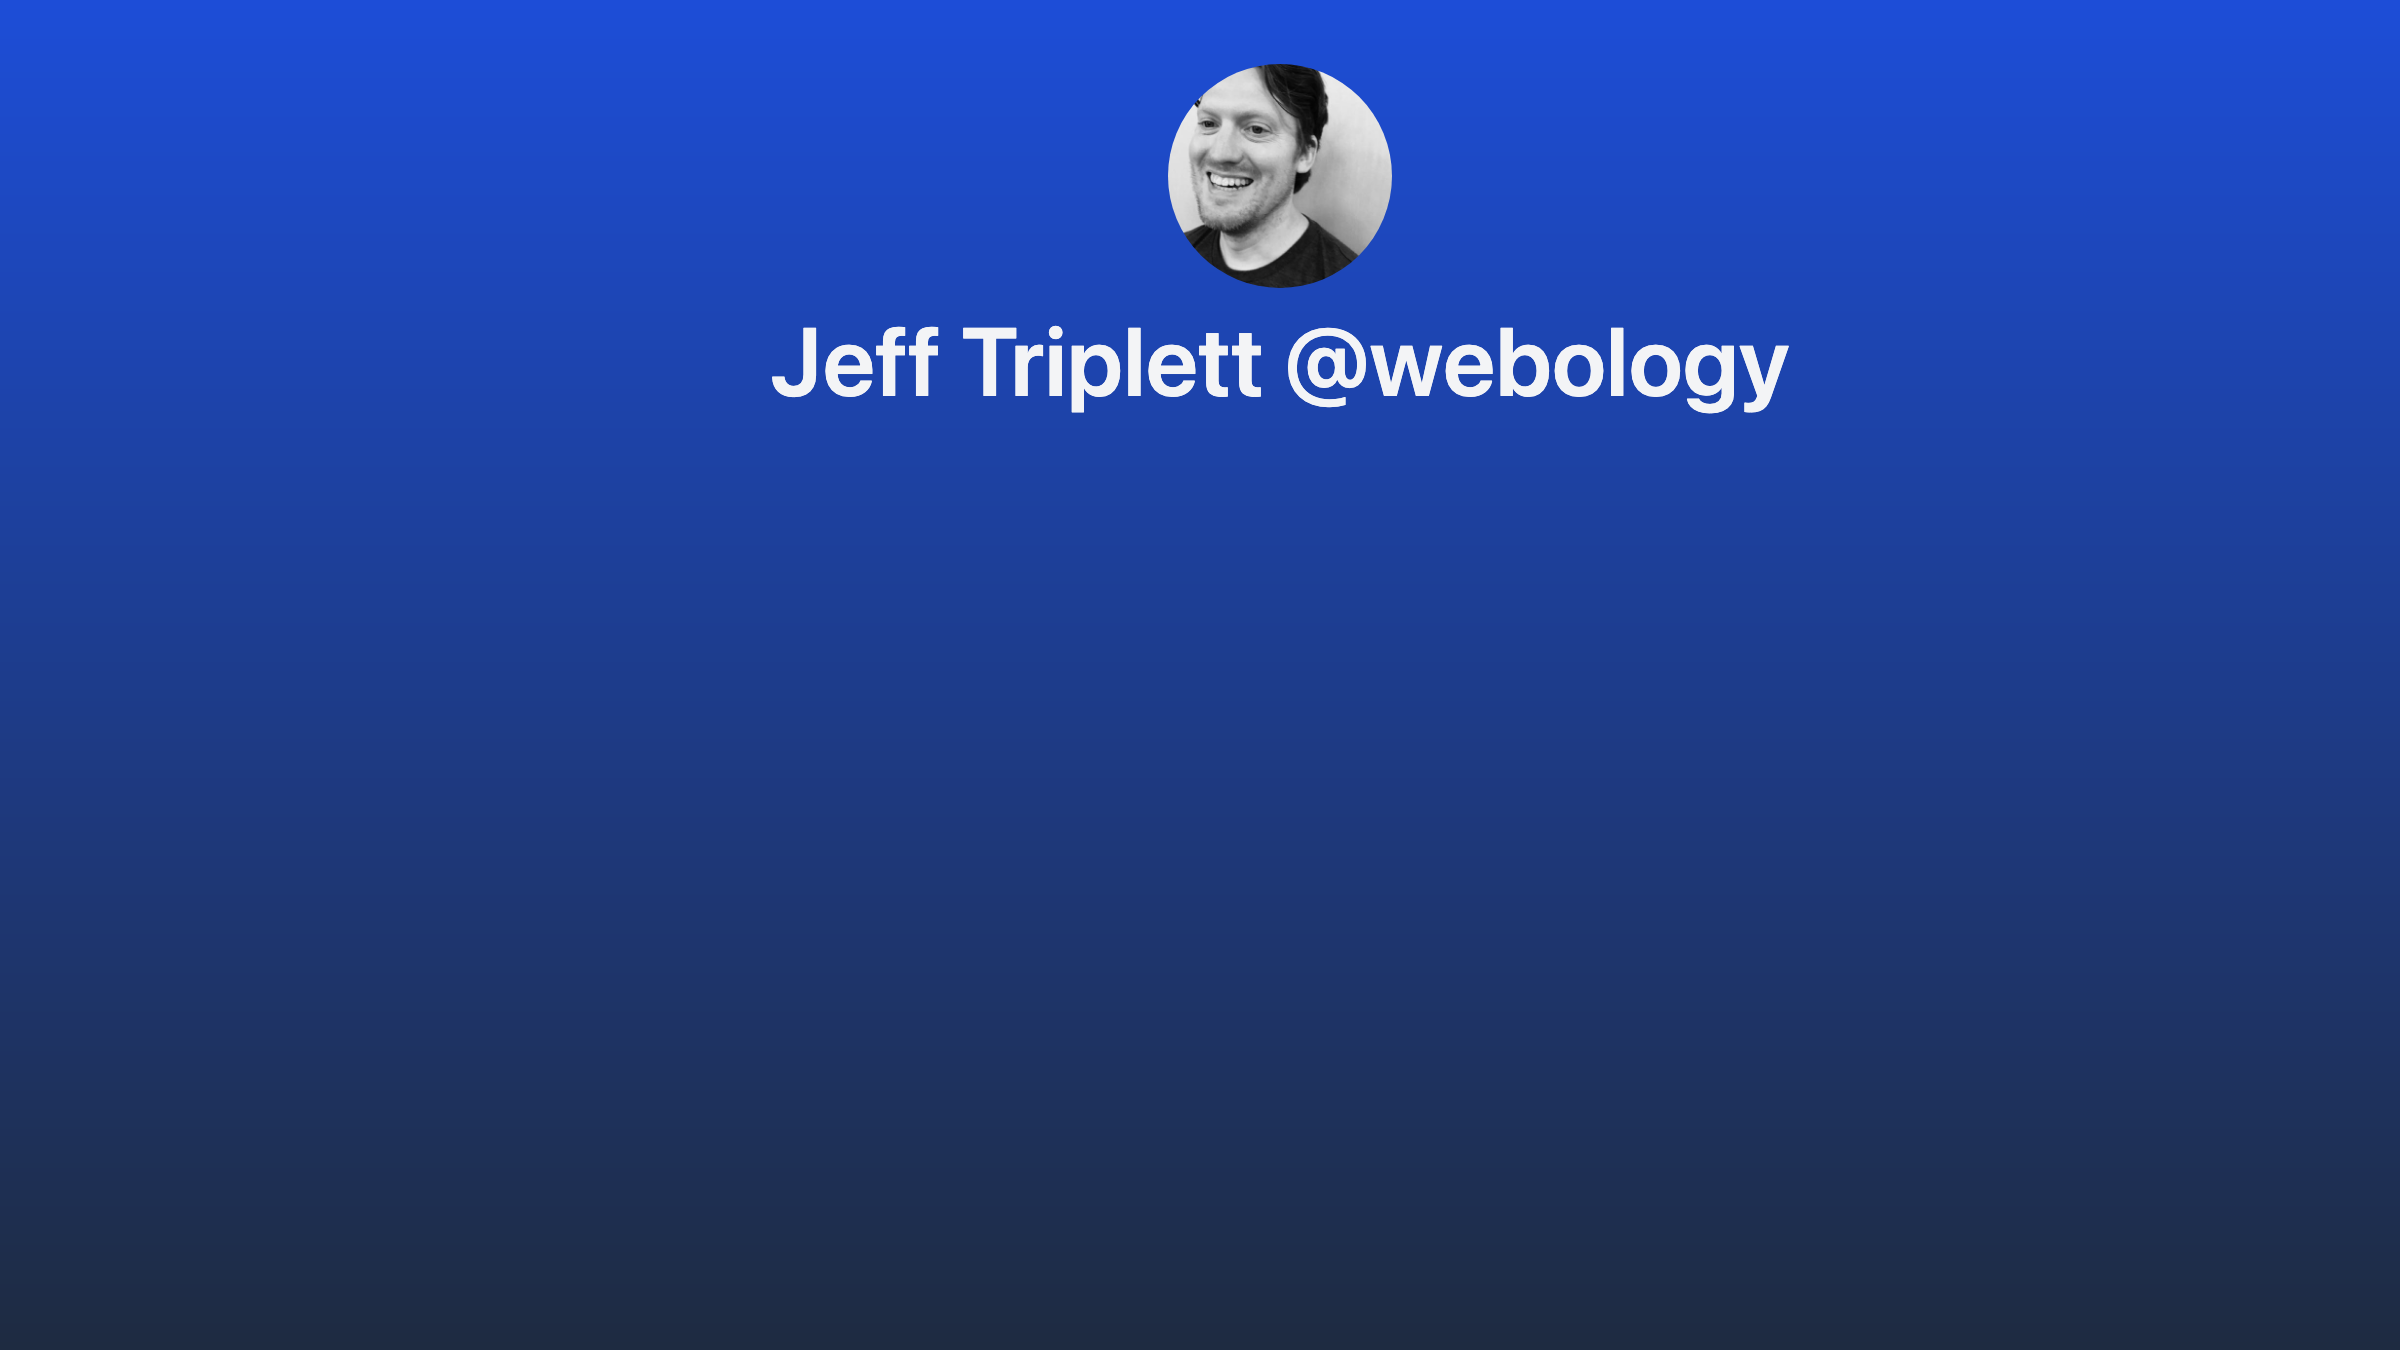
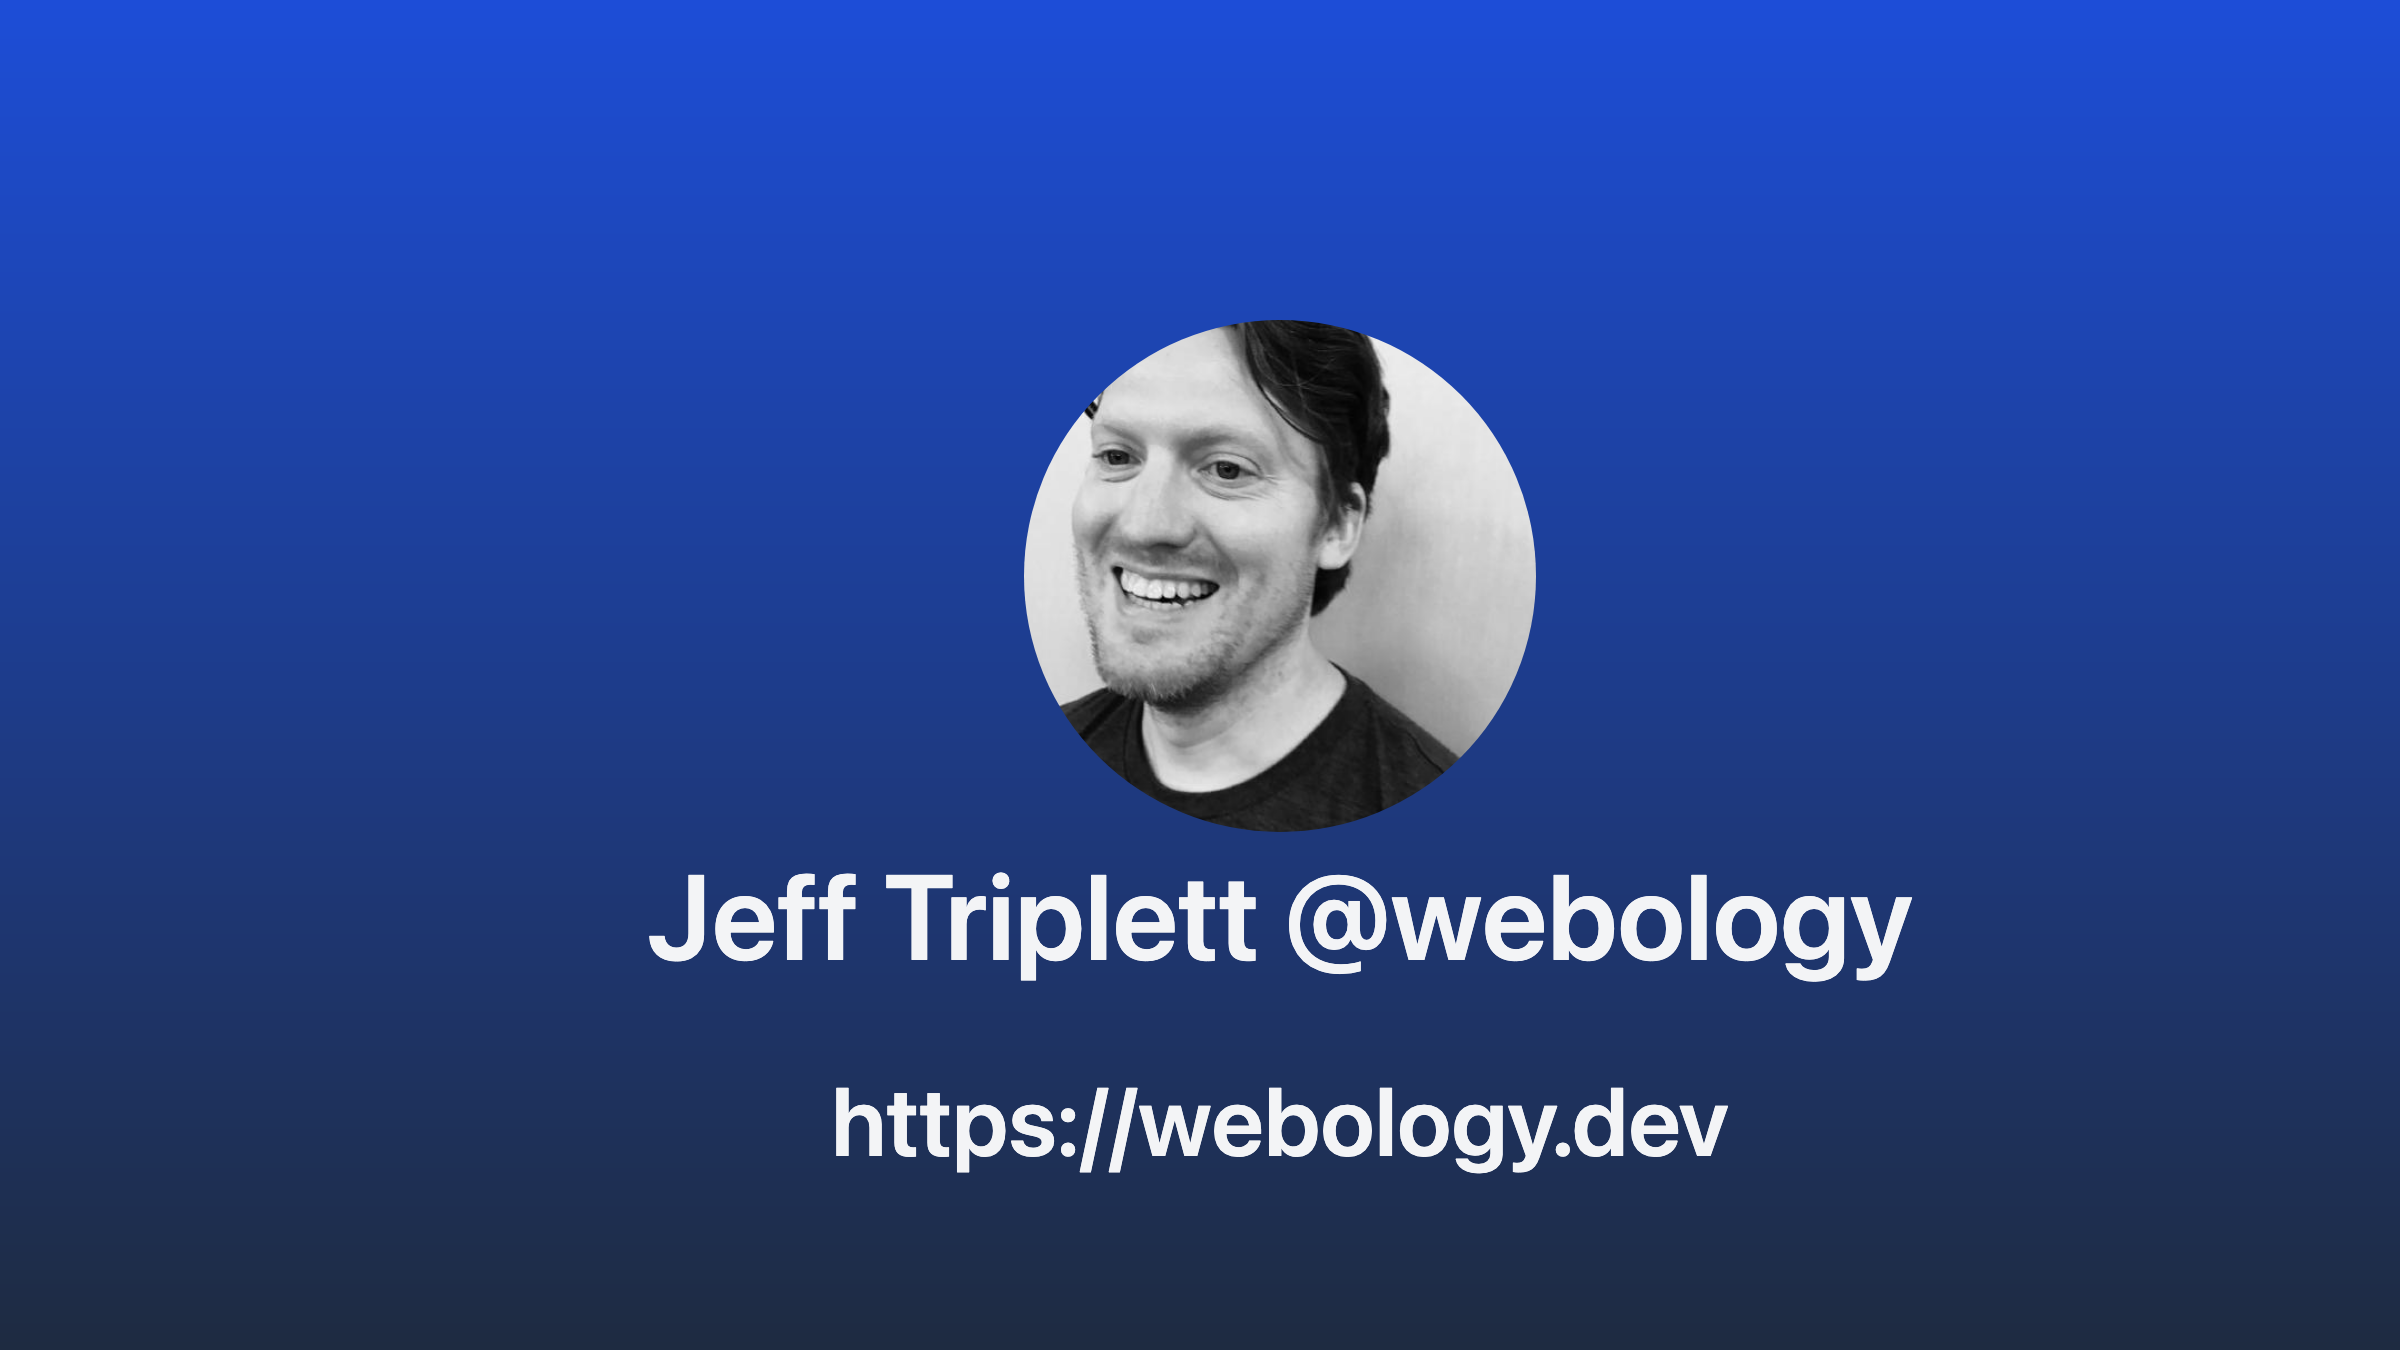
:hammer: Updates preview template and images

Changed region(s): [[0.3125, 0.0311, 0.75, 0.6222], [0.25, 0.6222, 0.8125, 0.7467], [0.3438, 0.8089, 0.7188, 0.8711]]

diff --git a/_includes/header.html b/_includes/header.html
@@ -15,6 +15,8 @@
 
     <h1 class="title">{{ site.name }}</h1>
 
-    <h2 class="description">{{ site.bio }}</h2>
+    {% if site.bio %}
+        <h2 class="description">{{ site.bio }}</h2>
+    {% endif %}
 
 </header>
